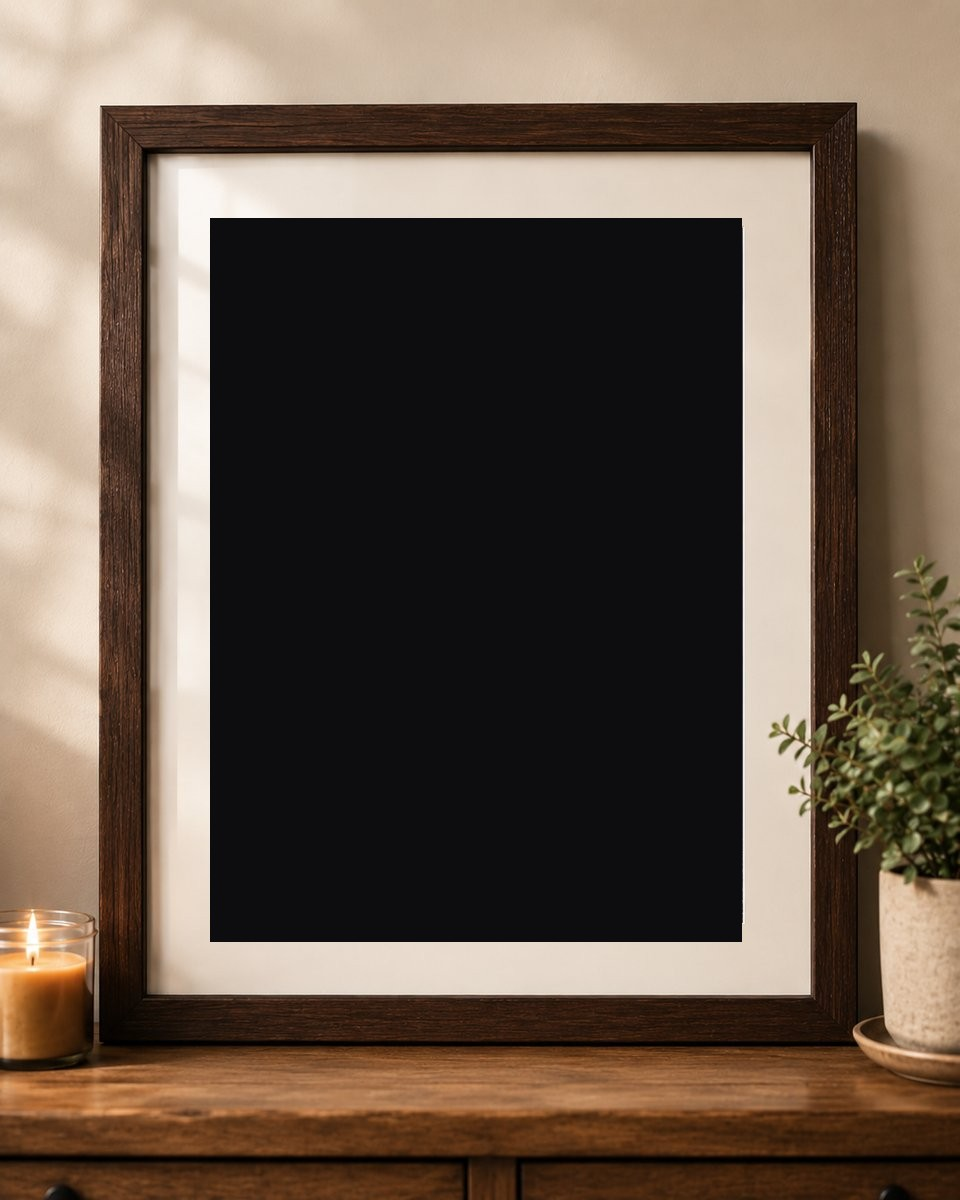
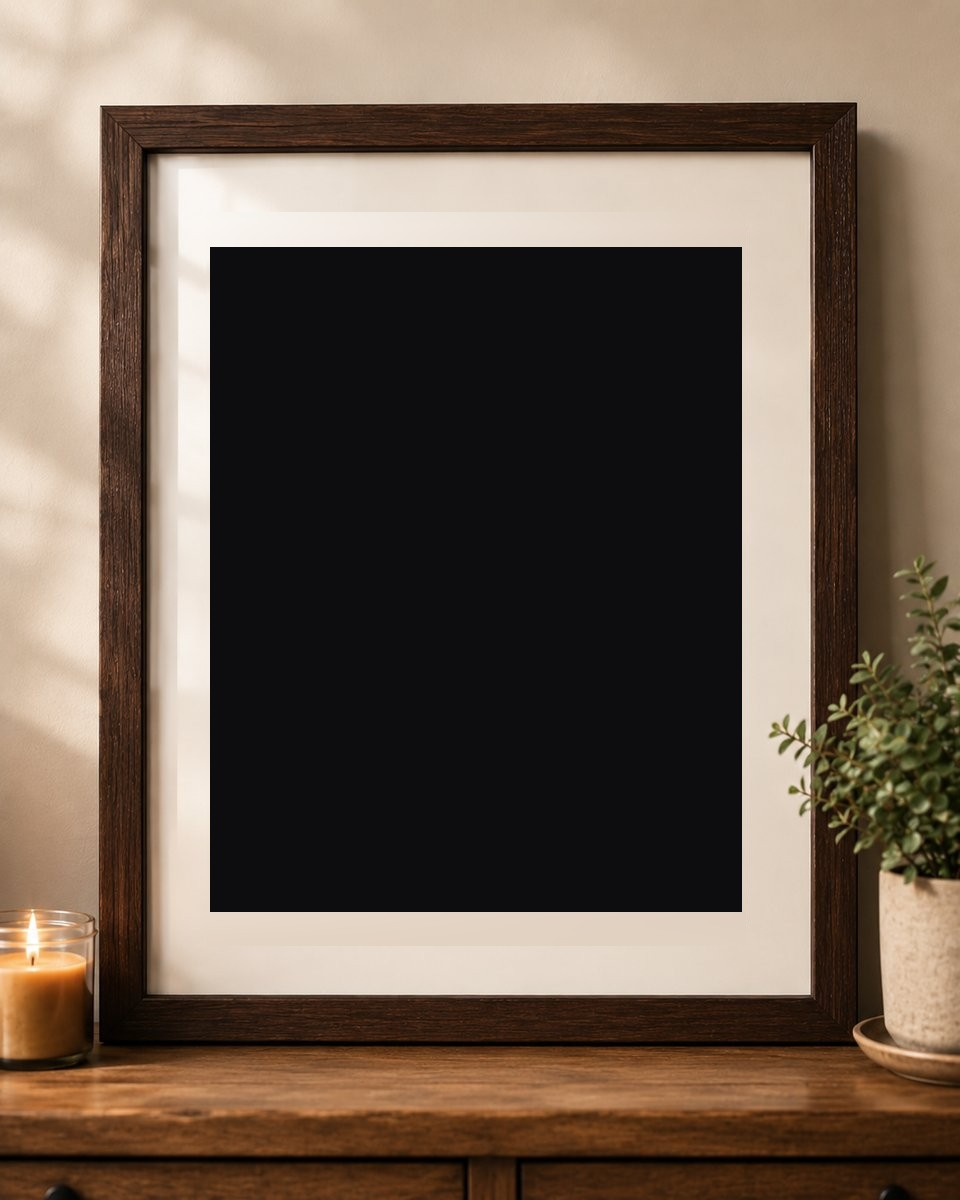
Standard 4:5 print canvas (16x20) + matching mat opening (no gaps)
Every render -- Words, Message, Sculpted, and the light/engraving path -- is now
composed onto a standard 4:5 print canvas (16"x20", also 8"x10"): the art is
fitted centred and the canvas filled with the ground colour, padded BEFORE the
boost/vibrance passes so the band is processed identically to the interior
ground (no seam; the composite ground is solid so the pad is invisible). The
digital file, the Printful print, and the framed studio presentation now share
one true aspect. Verified: all three styles emit exactly 1400x1750 (0.8).

The desk-scene plate is rebuilt with a true 4:5 mat opening (row-wise mat fill
from the pristine source; old opening was ~3:4) and the studio's kp-desk inset
updated to match (top 20.6%, bottom 24.0%) -- the art and the before/after
slider fill the opening edge-to-edge, fixing the letterbox gaps.

Changed region(s): [[0.2188, 0.74, 0.7812, 0.8017], [0.2188, 0.1542, 0.7812, 0.2158]]

diff --git a/typography_engine/static/index.html b/typography_engine/static/index.html
@@ -104,7 +104,9 @@
   #result.kp-desk .frame{position:relative;margin-top:16px;padding:0;border-radius:6px;overflow:hidden;
     aspect-ratio:960/1200;background:#efe9e1 url('/static/everloved/scene-desk.jpg') center/cover no-repeat;
     box-shadow:0 22px 54px rgba(20,30,60,.20)}
-  #result.kp-desk .mat{position:absolute;top:18.2%;left:21.9%;right:22.7%;bottom:21.5%;
+  /* Mat opening = exactly 4:5, matching the renderer's standard print canvas
+     (16x20) -- the art fills the opening edge-to-edge, no letterbox gaps. */
+  #result.kp-desk .mat{position:absolute;top:20.6%;left:21.9%;right:22.7%;bottom:24.0%;
     padding:0;border-radius:0;background:#0d0d0f;box-shadow:none;display:flex;align-items:center;justify-content:center}
   #result.kp-desk .stage{width:100%;height:100%;min-height:0;border:none;background:#0d0d0f}
   #result.kp-desk .compare{width:100%;height:100%;display:flex;align-items:center;justify-content:center}

diff --git a/typography_engine/app/pipeline/tonal.py b/typography_engine/app/pipeline/tonal.py
@@ -127,6 +127,34 @@ _SHADE_DARK = 0
 # shadows/midtones toward life while leaving highlights near-white. 0 disables.
 _MSG_BOOST = 0.5
 
+# Every render is composed onto a STANDARD PRINT canvas: 4:5 (16"x20", also
+# 8"x10") so the digital file, the Printful print, and the studio's framed
+# presentation all share one true aspect -- no letterbox gaps in the mat and no
+# crop at the printer. The art is fitted centred and the canvas filled with the
+# ground colour, which is seamless because the composite ground is solid.
+_PRINT_ASPECT = 0.8          # width / height = 4:5
+
+
+def _fit_print_canvas(arr: np.ndarray, ground) -> np.ndarray:
+    """Fit an HxWx3 image onto a 4:5 canvas filled with `ground` (RGB/BGR triple
+    matching the array's channel order). Centred; downscales only when the image
+    is taller than the canvas allows. Returns the array unchanged if already 4:5."""
+    h, w = arr.shape[:2]
+    if h <= 0 or w <= 0:
+        return arr
+    cw, ch = w, int(round(w / _PRINT_ASPECT))
+    if abs(w / h - _PRINT_ASPECT) < 0.005:
+        return arr
+    if h > ch:                       # too tall for this width -> scale down to fit
+        f = ch / float(h)
+        arr = cv2.resize(arr, (max(1, int(round(w * f))), ch), interpolation=cv2.INTER_AREA)
+        h, w = arr.shape[:2]
+    canvas = np.empty((ch, cw, 3), dtype=arr.dtype)
+    canvas[:] = np.asarray(ground, dtype=arr.dtype)
+    ox, oy = (cw - w) // 2, (ch - h) // 2
+    canvas[oy:oy + h, ox:ox + w] = arr
+    return canvas
+
 
 def _auto_message_font(text: str) -> float:
     """Pick the Message/prose font size from message length. build_poster repeats
@@ -1360,10 +1388,13 @@ def render_layered_png(an, text: str, style: str, cfg: RenderConfig, warns: Warn
             return b"", eres.runs, eground, ""
         ss = _eff_supersample(out_width)
         epng = svg_to_png_bytes(eres.svg, output_width=out_width * ss)
+        from PIL import Image
+        eimg = Image.open(io.BytesIO(epng)).convert("RGB")
         if ss > 1:                   # supersampled -> Lanczos down to final size
-            from PIL import Image
-            eimg = _lanczos_down(Image.open(io.BytesIO(epng)).convert("RGB"), out_width)
-            ebuf = io.BytesIO(); eimg.save(ebuf, format="PNG"); epng = ebuf.getvalue()
+            eimg = _lanczos_down(eimg, out_width)
+        # Same standard 4:5 print canvas as the composite path, padded with paper.
+        eimg = Image.fromarray(_fit_print_canvas(np.asarray(eimg), _hex_to_rgb(eground)))
+        ebuf = io.BytesIO(); eimg.save(ebuf, format="PNG"); epng = ebuf.getvalue()
         return epng, eres.runs, eground, ""
 
     # The layout only needs glyph POSITIONS (we whiten them into a mask); the
@@ -1424,6 +1455,10 @@ def compose_layered(mask_svg: str, an, ink: str, remove_bg: bool, out_width: int
     ground = np.array(_hex_to_rgb(_ground_hex(ink, light)), dtype=np.float32)
     m = (mask.astype(np.float32) / 255.0)[..., None]
     out = (ground + (photo - ground) * m).clip(0, 255).astype(np.uint8)
+    # Standard print canvas (4:5 = 16x20): pad with the ground BEFORE the boost
+    # and vibrance passes so the band is processed identically to the interior
+    # ground (no visible seam).
+    out = _fit_print_canvas(out, ground)
     if boost and boost > 0.0:        # lift dark Message renders (shadows/midtones)
         f = (out.astype(np.float32) / 255.0) ** (1.0 / (1.0 + float(boost)))
         out = (f * 255.0).clip(0, 255).astype(np.uint8)

diff --git a/typography_engine/app/pipeline/displacement.py b/typography_engine/app/pipeline/displacement.py
@@ -329,6 +329,10 @@ def render_displacement_portrait(
             out = out * (1.0 - im3) + iout * im3
     oh = max(1, int(out_width * h0 / w0))
     out = cv2.resize(out, (int(out_width), oh), interpolation=cv2.INTER_AREA)
+    # Standard print canvas (4:5 = 16x20), padded with the ground BEFORE vibrance
+    # so the band is processed identically to the interior ground (no seam).
+    from .tonal import _fit_print_canvas
+    out = _fit_print_canvas(out, g["bg"])
     from .preprocess import apply_vibrance
     out = apply_vibrance(out, bgr=True)       # give the render life (clarity/glow/saturation)
     ok, buf = cv2.imencode(".png", np.clip(out, 0, 255).astype(np.uint8))
